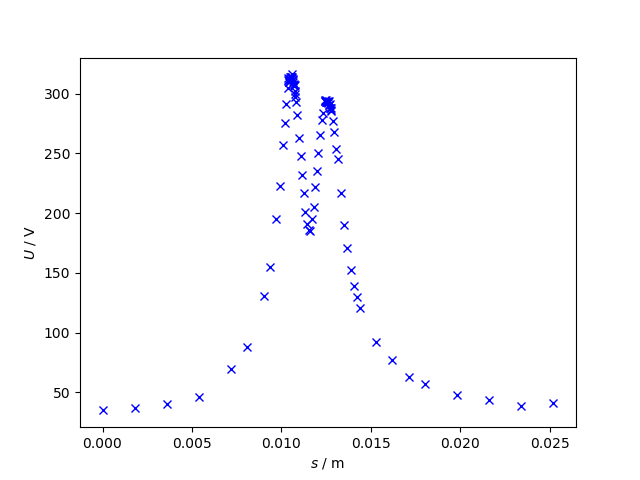
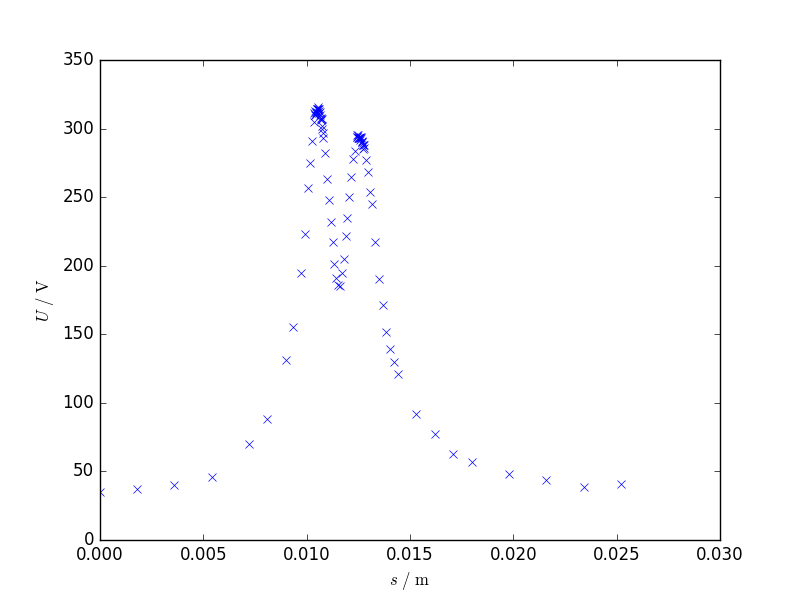
m5txt fertig

diff --git a/v25/python/plotwerte.py b/v25/python/plotwerte.py
@@ -8,10 +8,10 @@ um_0, U_0 = np.genfromtxt("m_0.txt", unpack=True)
 um_1, U_1 = np.genfromtxt("m_1.txt", unpack=True)
 um_2, U_2 = np.genfromtxt("m_2.txt", unpack=True)
 um_3, U_3 = np.genfromtxt("m_3.txt", unpack=True)
-# um_0, U_4 = np.genfromtxt("m_0.txt", unpack=True)
-# um_0, U_5 = np.genfromtxt("m_0.txt", unpack=True)
-# um_0, U_6 = np.genfromtxt("m_0.txt", unpack=True)
-# um_0, U_7 = np.genfromtxt("m_0.txt", unpack=True)
+um_4, U_4 = np.genfromtxt("m_4.txt", unpack=True)
+um_5, U_5 = np.genfromtxt("m_5.txt", unpack=True)
+# um_6, U_6 = np.genfromtxt("m_6.txt", unpack=True)
+# um_7, U_7 = np.genfromtxt("m_7.txt", unpack=True)
 
 
 # werte umrechnen
@@ -22,8 +22,8 @@ s_0 = umrechnen(um_0)
 s_1 = umrechnen(um_1)
 s_2 = umrechnen(um_2)
 s_3 = umrechnen(um_3)
-# s_4 = umrechnen(um_4)
-# s_5 = umrechnen(um_5)
+s_4 = umrechnen(um_4)
+s_5 = umrechnen(um_5)
 # s_6 = umrechnen(um_6)
 # s_7 = umrechnen(um_7)
 
@@ -35,11 +35,11 @@ def plot_SU(s, U, nummer):
     plt.plot(s, U, 'bx')
     plt.xlabel(r'$ s \ / \ \mathrm{m} $')
     plt.ylabel(r'$ U \ / \ \mathrm{V} $')
-    #plt.savefig("plots/plot_" + nstr)
-    plt.show()
+    plt.savefig("plots/plot_" + nstr)
 # plotten
 plot_SU(s_0, U_0, 0)
 plot_SU(s_1, U_1, 1)
 plot_SU(s_2, U_2, 2)
 plot_SU(s_3, U_3, 3)
-
+plot_SU(s_4, U_4, 4)
+plot_SU(s_5, U_5, 5)
